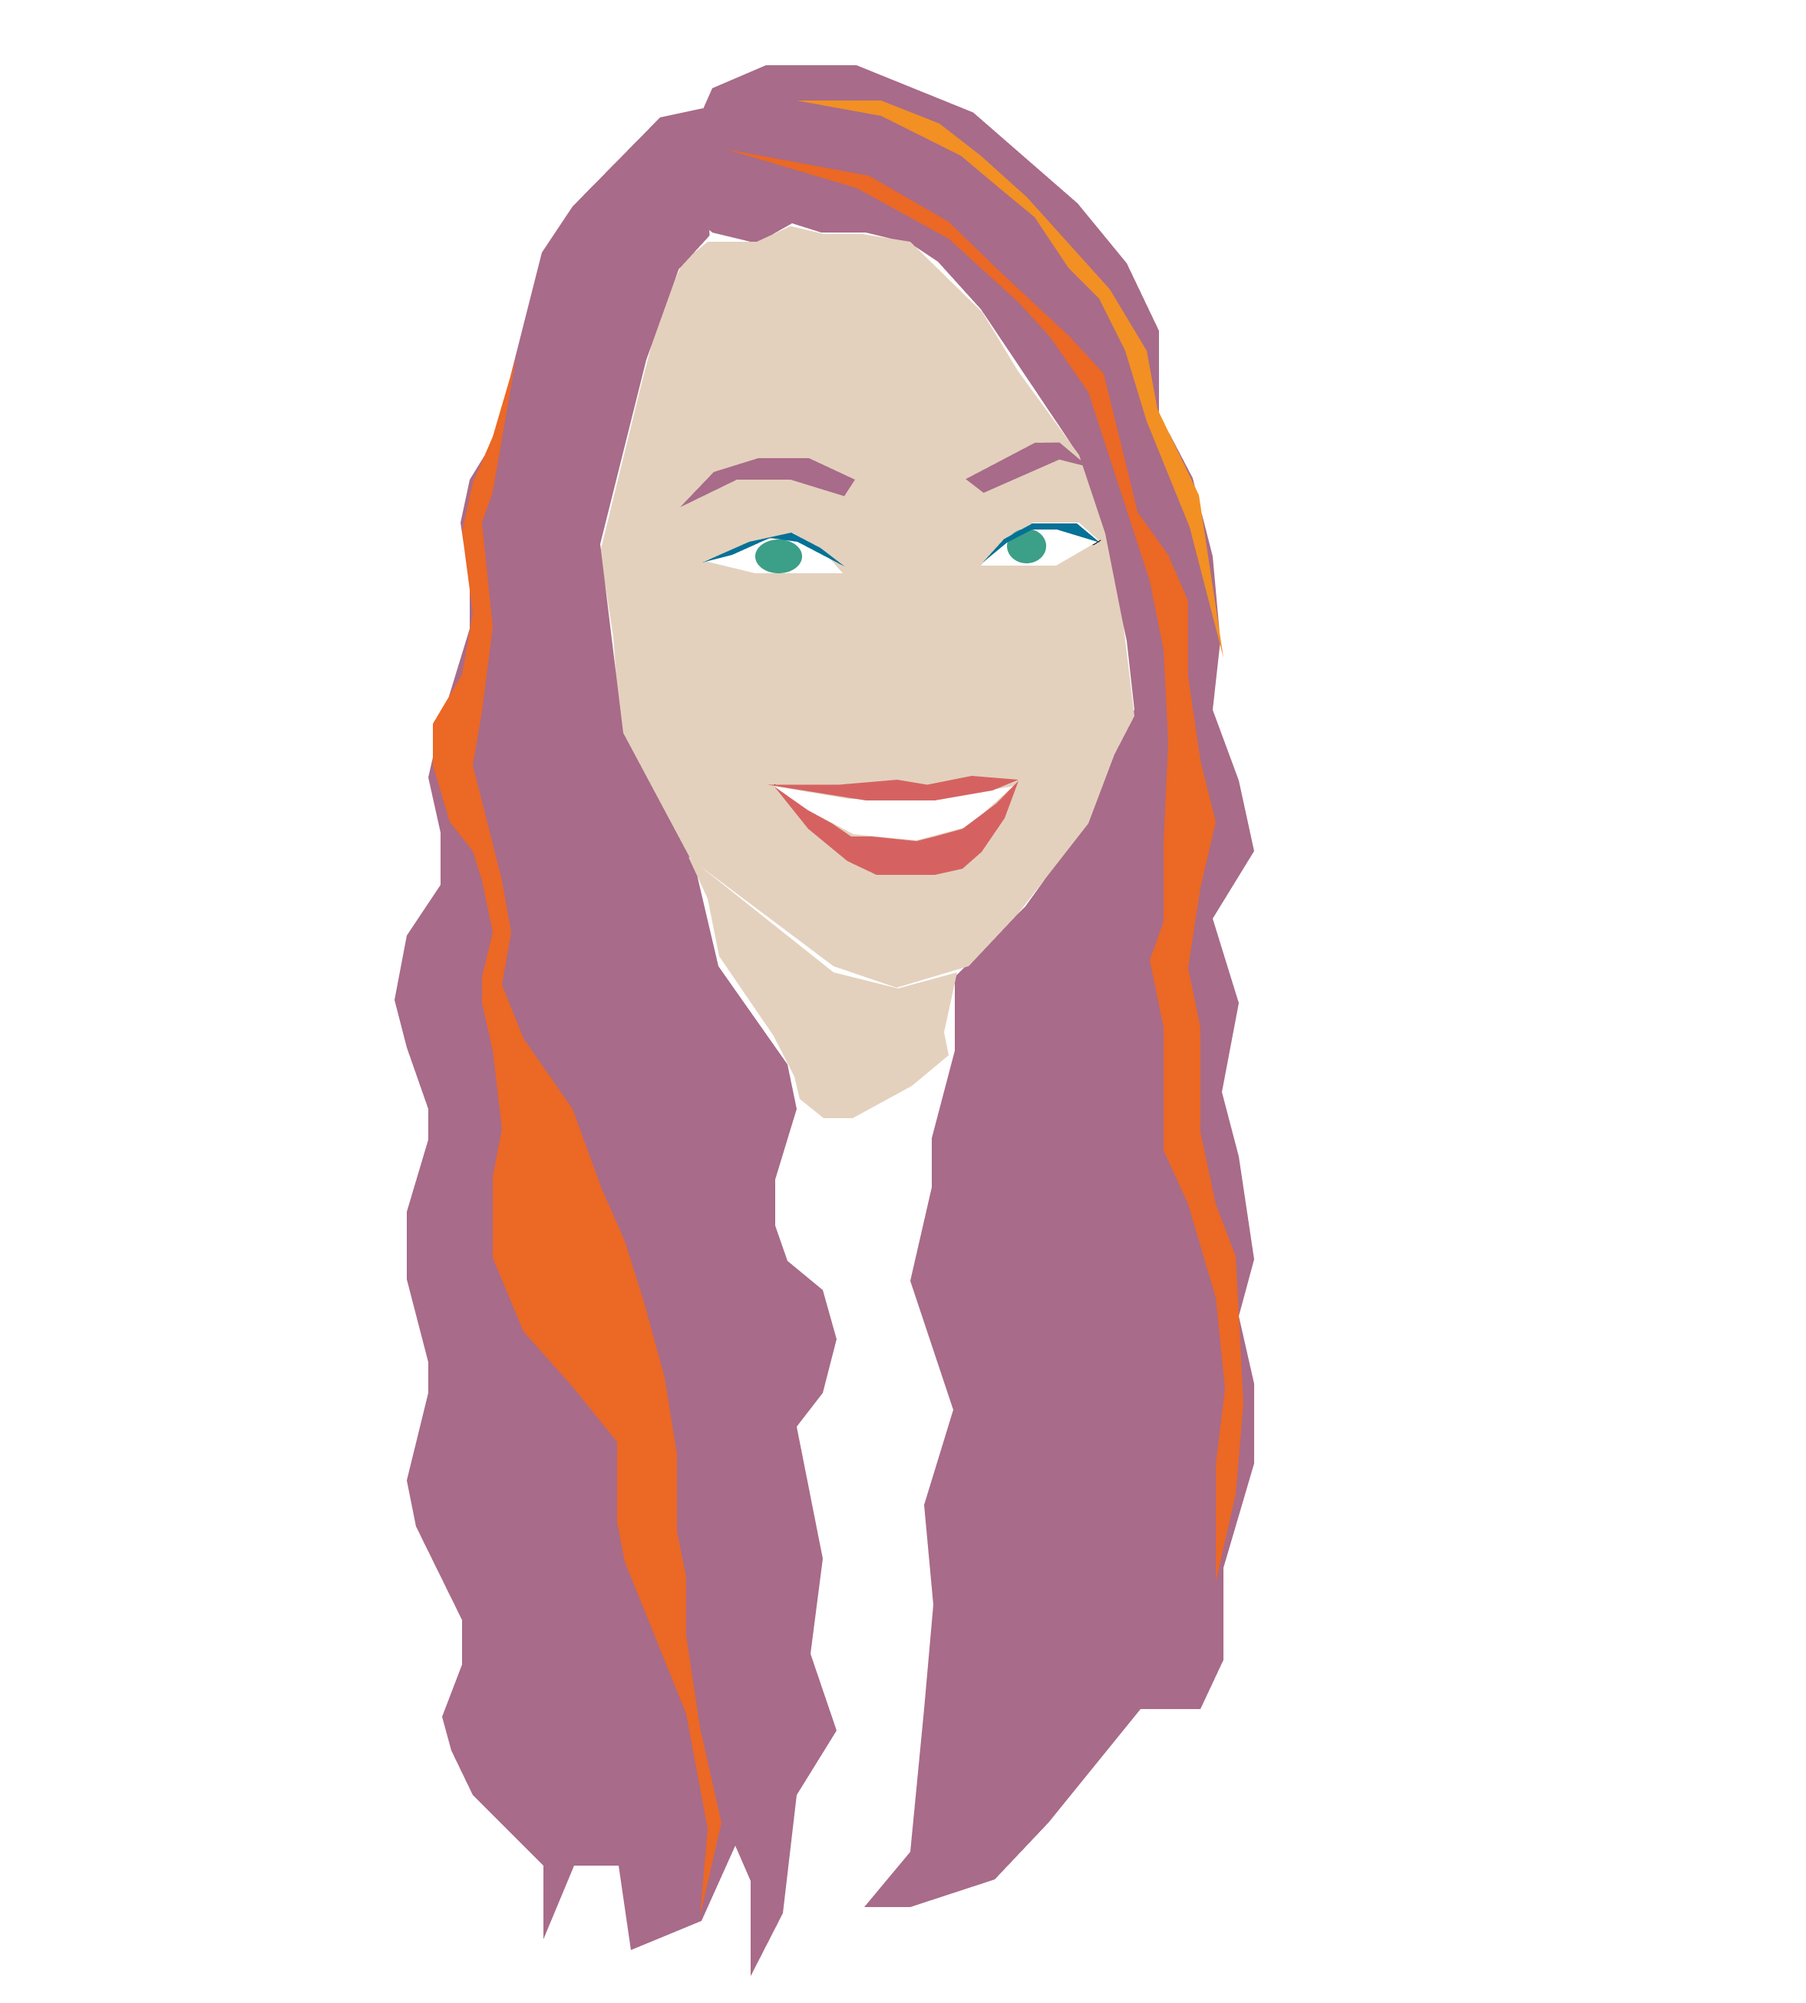
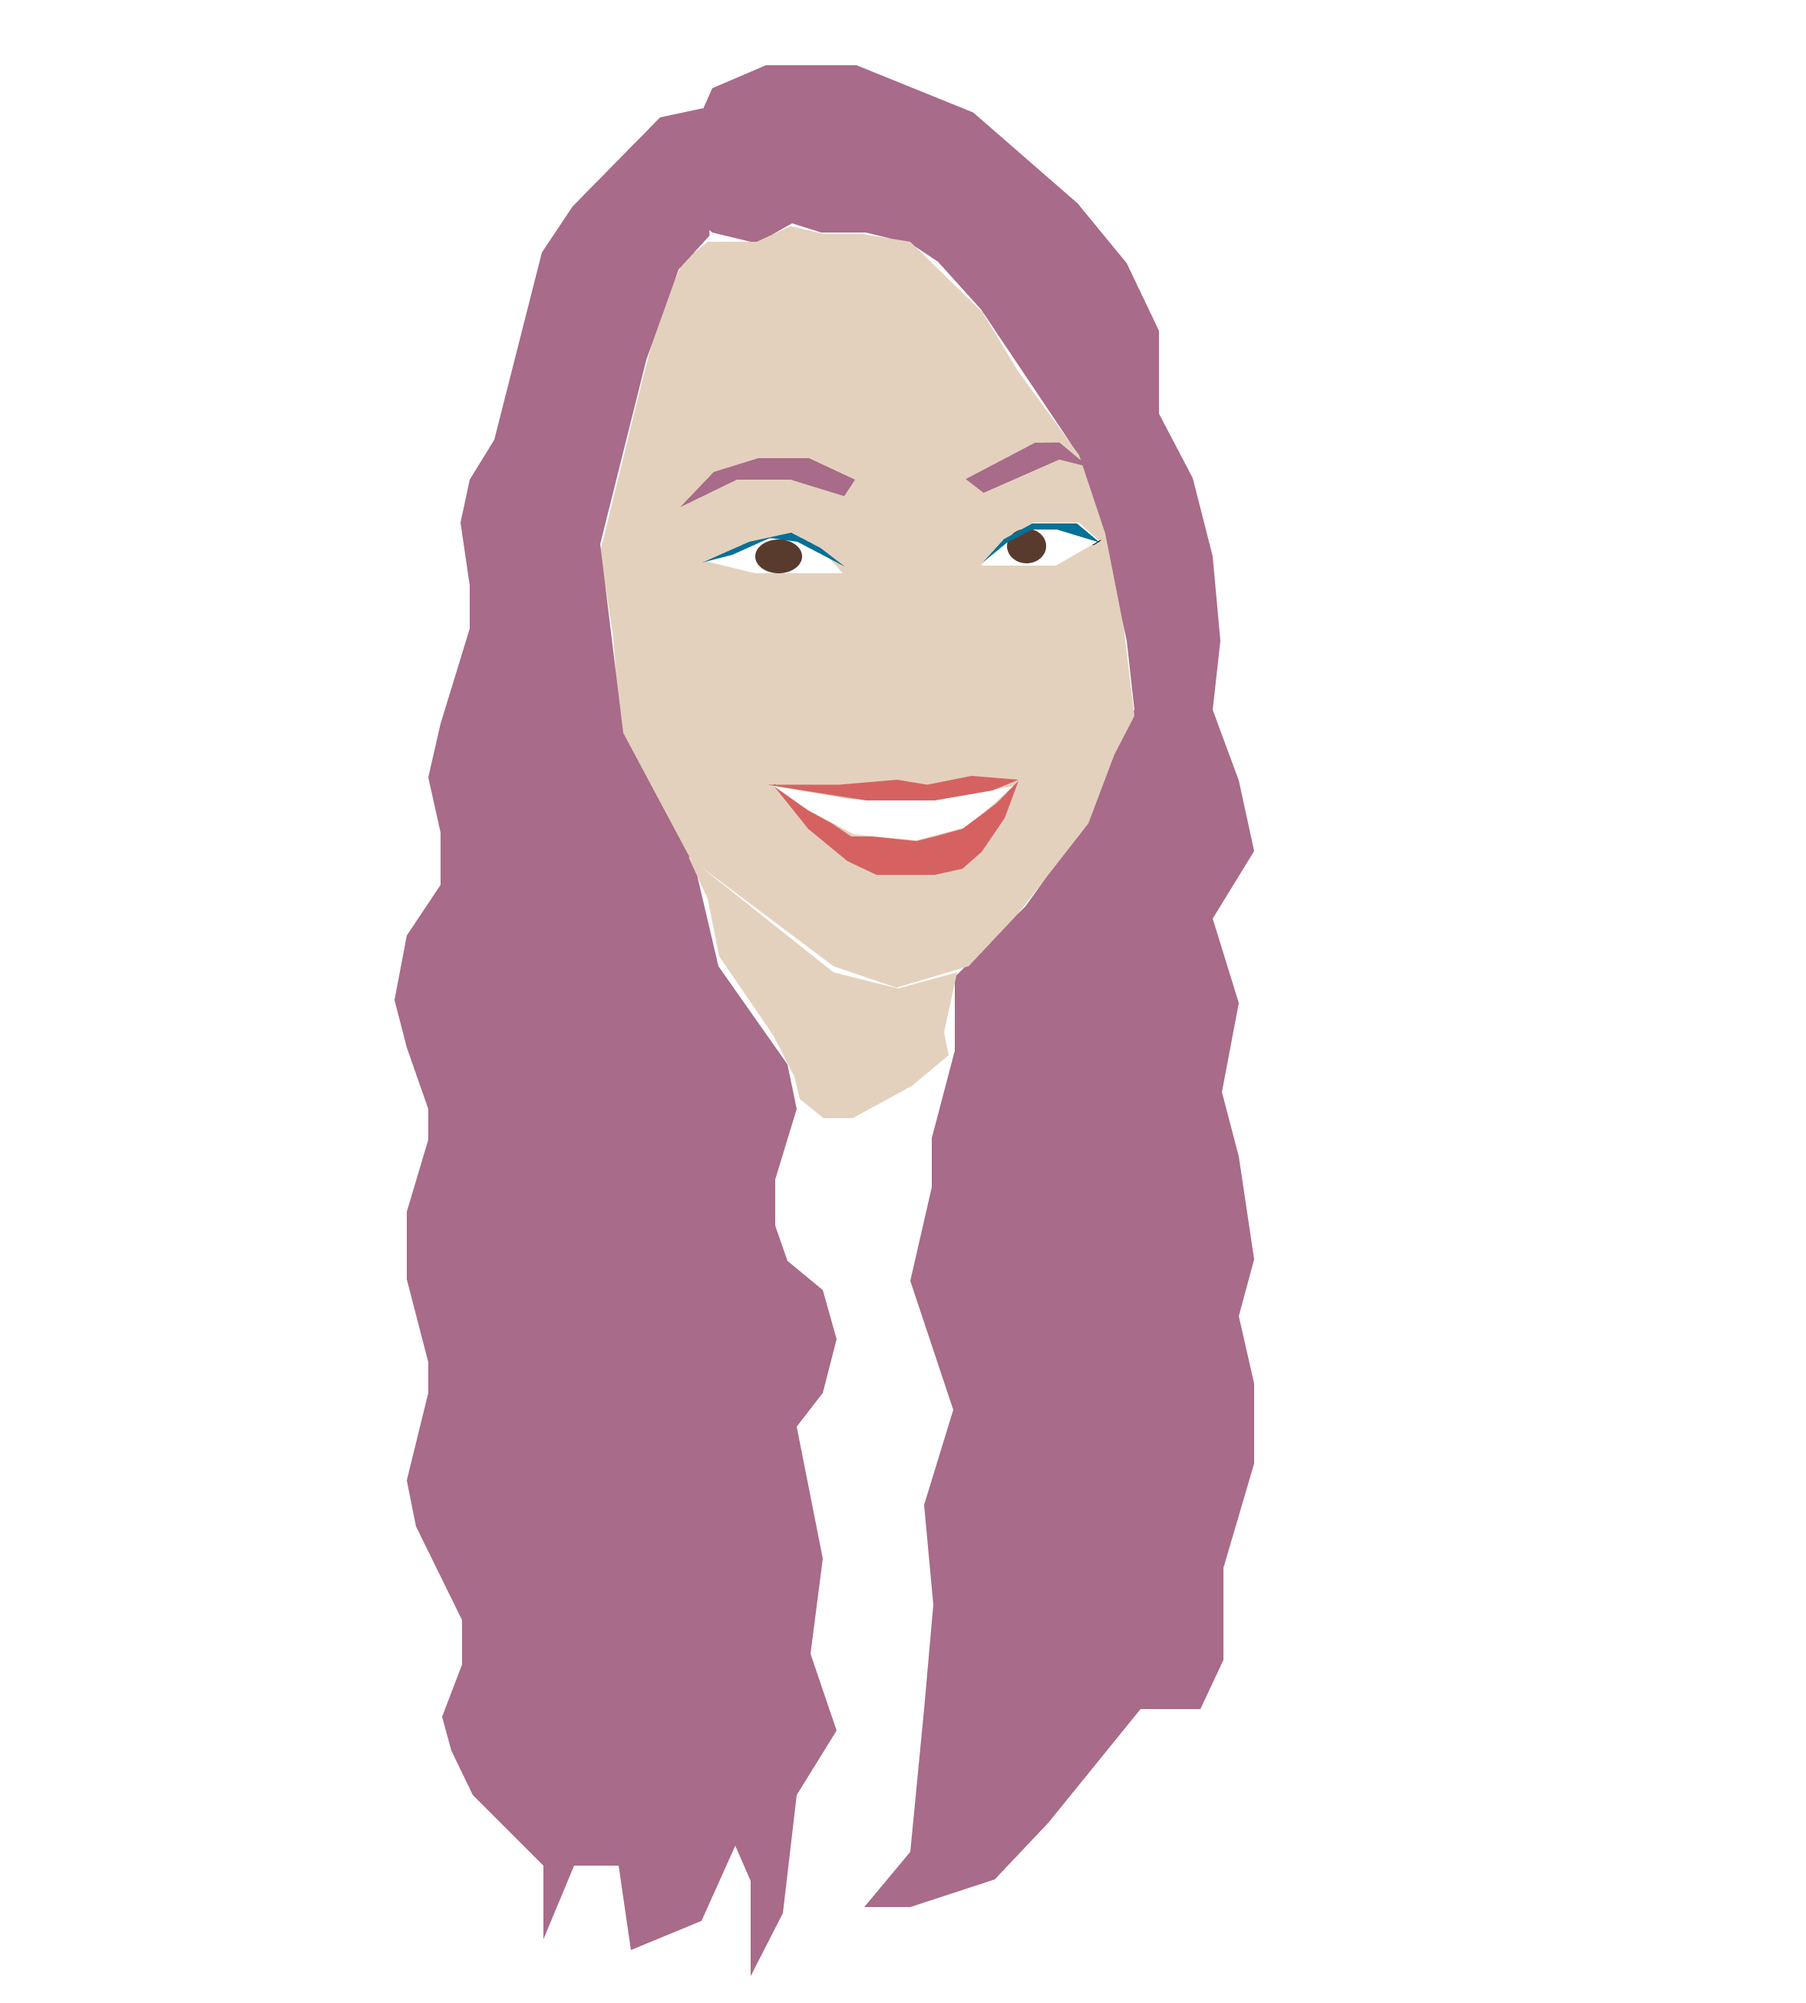
Update SVG

diff --git a/src/Headshot.js b/src/Headshot.js
@@ -2,28 +2,25 @@ import React from 'react';
 
 const Headshot = () => {
     return (
-      <svg viewBox="0 0 2353 2610" fill="none" xmlns="http://www.w3.org/2000/svg">
-        <path d="M928 115L914 146.556L914 291L928 303L986 317L1032 291L1070 303L1128 303L1186 317L1222 341L1278 403L1404 591L1438 695L1468 835L1478 925L1458 957L1418 1067L1336 1181L1244 1273L1244 1369L1214 1483L1214 1547L1186 1669L1242 1837L1204 1961L1216 2091L1204 2227L1186 2413L1126 2485L1186 2485L1296 2449L1366 2375L1486 2227L1564 2227L1594 2163L1594 2043L1634 1907L1634 1803L1614 1715L1634 1641L1614 1507L1592 1423L1614 1307L1580 1197L1634 1109L1614 1017L1580 925L1590 835L1580 725L1554 623L1510 539L1510 431L1468 343L1404 265L1268 146.556L1116 84.9999L998 84.9998L928 115Z" fill="#A86B89"/>
-        <path d="M1406 592.999L1326 482.999L1280 407L1233 361L1186 315L1124 305L1074 305L1030 294.665L986 315L922 315L890 341L860 407L836 499L782 719L799 830L808 951L836 1035L902 1121L1086 1259L1168 1287L1262 1259L1326 1191L1418 1073L1452 983L1478 933L1464 817L1440 694.999L1406 592.999Z" fill="#E3D1BE"/>
-        <path d="M782.001 708.997L842.001 468.997L884.214 350.997L924.5 307.021L916 141L860 153L746 269L706 329L644 573L612 625L600 681L612 763L612 819L593 881L574 943L558 1013L574 1085L574 1153L530 1219L514 1303L530 1365L558 1445L558 1485L530 1579L530 1667L558 1775L558 1815L530 1929L542 1989L602 2111L602 2169L576 2237L588 2281L616 2339L708 2431L708 2527L748 2431L806 2431L822 2541L914 2503L958 2405L978 2451L978 2575L1020 2493L1038 2339L1090 2255L1056 2155L1072 2031L1038 1859L1072 1815L1090 1745L1072 1681L1026 1643L1010 1597L1010 1537L1038 1445L1026 1387L936 1259L906 1131L812.001 954.997L782.001 708.997Z" fill="#A86B89"/>
-        <path d="M1418.45 608.494L1380.39 576.603L1348.37 576.932L1258.23 624.261L1281.51 642.18L1380.15 598.799L1418.45 608.494Z" fill="#A86B89"/>
-        <path d="M886 661L930 615L988 597H1054L1114 625L1100 646.5L1030 625H960L886 661Z" fill="#A86B89"/>
-        <path d="M1034 695L1072 717L1098 747L1050 747L984 747L918 731L984 707L1034 695Z" fill="white"/>
-        <path d="M1431.9 704.509L1406 681L1346 681L1306 704.509L1278 737L1318 737L1376 737L1431.9 704.509Z" fill="white"/>
-        <path d="M1106 1041L1009 1024.5L1048 1053L1112 1087L1194 1095L1262 1077L1320 1024.5L1222 1041L1106 1041Z" fill="white"/>
-        <line x1="1009" y1="1022.5" x2="1010" y2="1022.5" stroke="black"/>
-        <path d="M1266 1011L1208 1022.5L1169 1016L1093 1022.5H1000L1128 1043H1218L1293 1030L1327 1016L1266 1011Z" fill="#D56261"/>
-        <path d="M1326.99 1017.5L1298 1047L1254 1080L1218 1090L1194 1096L1136 1090L1109 1090L1084 1073L1053 1056L1008.99 1025L1053 1080L1104 1122L1142 1140L1218 1140L1254 1132L1279 1110L1309 1066L1326.99 1017.5Z" fill="#D56261"/>
-        <path d="M896.807 1116.46L1042 1232L1086 1267L1170 1288L1247 1267L1230 1345L1236 1375L1188 1415L1111 1457L1073 1457L1042 1432L1035 1403L1008 1350L937 1246L922 1171L896.807 1116.46Z" fill="#E3D1BE"/>
-        <ellipse cx="1014.5" cy="725" rx="30.5" ry="22" fill="#3C9F88"/>
-        <ellipse cx="1337.5" cy="711.5" rx="25.5" ry="22.5" fill="#3C9F88"/>
-        <path d="M1101.04 738.502L1039 706L1003 701L954 723L915 733L976 706L1031 694L1069 714L1101.04 738.502Z" fill="#057196"/>
-        <path d="M1308 702.51L1279.9 733.51L1312 707L1345 690L1377 690L1433 707L1403 682L1377 682L1345 682L1308 702.51Z" fill="#057196"/>
-        <path d="M1132 229L946.277 194.584L1116 245L1236 311L1328 395L1368 439L1418 511L1498 757L1516 847L1522 967L1516 1097L1516 1201L1498 1251L1516 1339L1516 1499L1548 1569L1584 1691L1596 1809L1584 1909L1584 2061L1610 1947L1620 1829L1610 1637L1584 1569L1564 1475L1564 1339L1548 1261L1564 1157L1584 1071L1564 991L1548 881L1548 783L1522 723L1482 667L1472 625L1438 487L1394 439L1304 355L1236 289L1132 229Z" fill="#EB6825"/>
-        <path d="M1148 131L1038 131L1148 151L1252 203L1302 245L1348 283L1392 349L1432 389L1466 457L1494 549L1550 687L1594 857L1562 645L1508 533L1494 457L1446 377L1338 257L1278 203L1224 161L1148 131Z" fill="#F29024"/>
-        <path d="M642 641.001L672.5 465.008L642 569L616 629L602 693L616 799L602 879L564 943L564 997.001L586 1071L616 1109L628 1147L642 1215L628 1273L628 1307L642 1369L654 1471L642 1533L642 1639L682 1735L746 1807L804 1879L804 1983L814 2035L894 2233L922 2383L912 2497L940 2375L912 2251L894 2131L894 2055L882 1995L882 1895L866 1795L838 1693L814 1617L784 1549L746 1445L682 1353L654 1283L666 1215L654 1147L616 997.001L628 927.001L642 817.001L628 681.001L642 641.001Z" fill="#EB6825"/>
-        <path d="M1424 710C1428.34 708.307 1430.36 705.821 1434 704" stroke="black" stroke-linecap="round" stroke-linejoin="round"/>
-      </svg>
+<svg width="2353" height="2610" viewBox="0 0 2353 2610" fill="none" xmlns="http://www.w3.org/2000/svg">
+<path d="M928 115L914 146.556L914 291L928 303L986 317L1032 291L1070 303L1128 303L1186 317L1222 341L1278 403L1404 591L1438 695L1468 835L1478 925L1458 957L1418 1067L1336 1181L1244 1273L1244 1369L1214 1483L1214 1547L1186 1669L1242 1837L1204 1961L1216 2091L1204 2227L1186 2413L1126 2485L1186 2485L1296 2449L1366 2375L1486 2227L1564 2227L1594 2163L1594 2043L1634 1907L1634 1803L1614 1715L1634 1641L1614 1507L1592 1423L1614 1307L1580 1197L1634 1109L1614 1017L1580 925L1590 835L1580 725L1554 623L1510 539L1510 431L1468 343L1404 265L1268 146.556L1116 84.9999L998 84.9998L928 115Z" fill="#A86B89"/>
+<path d="M1406 592.999L1326 482.999L1280 407L1233 361L1186 315L1124 305L1074 305L1030 294.665L986 315L922 315L890 341L860 407L836 499L782 719L799 830L808 951L836 1035L902 1121L1086 1259L1168 1287L1262 1259L1326 1191L1418 1073L1452 983L1478 933L1464 817L1440 694.999L1406 592.999Z" fill="#E3D1BE"/>
+<path d="M782.001 708.997L842.001 468.997L884.214 350.997L924.5 307.021L916 141L860 153L746 269L706 329L644 573L612 625L600 681L612 763L612 819L593 881L574 943L558 1013L574 1085L574 1153L530 1219L514 1303L530 1365L558 1445L558 1485L530 1579L530 1667L558 1775L558 1815L530 1929L542 1989L602 2111L602 2169L576 2237L588 2281L616 2339L708 2431L708 2527L748 2431L806 2431L822 2541L914 2503L958 2405L978 2451L978 2575L1020 2493L1038 2339L1090 2255L1056 2155L1072 2031L1038 1859L1072 1815L1090 1745L1072 1681L1026 1643L1010 1597L1010 1537L1038 1445L1026 1387L936 1259L906 1131L812.001 954.997L782.001 708.997Z" fill="#A86B89"/>
+<path d="M1418.45 608.494L1380.39 576.603L1348.37 576.932L1258.23 624.261L1281.51 642.18L1380.15 598.799L1418.45 608.494Z" fill="#A86B89"/>
+<path d="M886 661L930 615L988 597H1054L1114 625L1100 646.5L1030 625H960L886 661Z" fill="#A86B89"/>
+<path d="M1034 695L1072 717L1098 747L1050 747L984 747L918 731L984 707L1034 695Z" fill="white"/>
+<path d="M1431.9 704.509L1406 681L1346 681L1306 704.509L1278 737L1318 737L1376 737L1431.9 704.509Z" fill="white"/>
+<path d="M1106 1041L1009 1024.5L1048 1053L1112 1087L1194 1095L1262 1077L1320 1024.5L1222 1041L1106 1041Z" fill="white"/>
+<line x1="1009" y1="1022.5" x2="1010" y2="1022.5" stroke="black"/>
+<path d="M1266 1011L1208 1022.5L1169 1016L1093 1022.5H1000L1128 1043H1218L1293 1030L1327 1016L1266 1011Z" fill="#D56261"/>
+<path d="M1326.99 1017.5L1298 1047L1254 1080L1218 1090L1194 1096L1136 1090L1109 1090L1084 1073L1053 1056L1008.99 1025L1053 1080L1104 1122L1142 1140L1218 1140L1254 1132L1279 1110L1309 1066L1326.99 1017.5Z" fill="#D56261"/>
+<path d="M896.807 1116.46L1042 1232L1086 1267L1170 1288L1247 1267L1230 1345L1236 1375L1188 1415L1111 1457L1073 1457L1042 1432L1035 1403L1008 1350L937 1246L922 1171L896.807 1116.46Z" fill="#E3D1BE"/>
+<ellipse cx="1014.5" cy="725" rx="30.5" ry="22" fill="#593B2D"/>
+<ellipse cx="1337.5" cy="711.5" rx="25.5" ry="22.5" fill="#593B2D"/>
+<path d="M1101.04 738.502L1039 706L1003 701L954 723L915 733L976 706L1031 694L1069 714L1101.04 738.502Z" fill="#057196"/>
+<path d="M1308 702.51L1279.9 733.51L1312 707L1345 690L1377 690L1433 707L1403 682L1377 682L1345 682L1308 702.51Z" fill="#057196"/>
+<path d="M1424 710C1428.34 708.307 1430.36 705.821 1434 704" stroke="black" stroke-linecap="round" stroke-linejoin="round"/>
+</svg>
 
     )
 }

diff --git a/src/App.js b/src/App.js
@@ -149,14 +149,16 @@ const App = () => {
               <div className='aboutMe' onClick={toggleAboutMeSection}>
                 <Headshot />
                 <div className='summaryContainer'>
-                  <p>Connie Hong is a software developer, vocalist, songwriter, teacher, and an overall creative person.  She is the lead singer and songwriter for Ivory Circle and Fair Elle, and vocal teacher/ coach in Denver, Colorado.</p>
+                  <p>Connie Hong is a software developer, vocalist, songwriter, teacher, a lifelong learner, and a creative thinker.  She is the lead singer and songwriter for Ivory Circle and Fair Elle, and vocal teacher/ coach in Denver, Colorado.</p>
                 </div>
               </div>
               <section className='summary'>
                 <h2>I'm Connie Hong (she/her).</h2> 
                 <img
                   className='realHeadshotImg'
-                  src={headshotReal}></img>
+                  src={headshotReal}
+                  alt='photo portrait of Connie Hong sitting in a chair and smiling'>
+                </img>
                 <p>I'm an experienced musician, singer-songwriter, lifelong learner, and creative thinker. I strive to find beauty and artistic expression in everything I do, so programming is no exception.</p>
                 <p>Recent world and life events afforded me the opportunity to begin a career in software development to explore my interests and curiosities, while helping my community (and beyond) in new ways I hadn't yet explored through software engineering and frontend development. Past endeavors in design, crafts, and sewing have led to a passion for sustainable fashion and minimal waste-living (especially in the realm of slow-fashion). I strive to cultivate a life of creativity and responsible-living where I can help better the world working with a company that shares my values in improving the world we live in, while affording myself with a work-life balance where I can still pursue a beautiful life of music and art.</p>
                 <svg>Instagram</svg>
